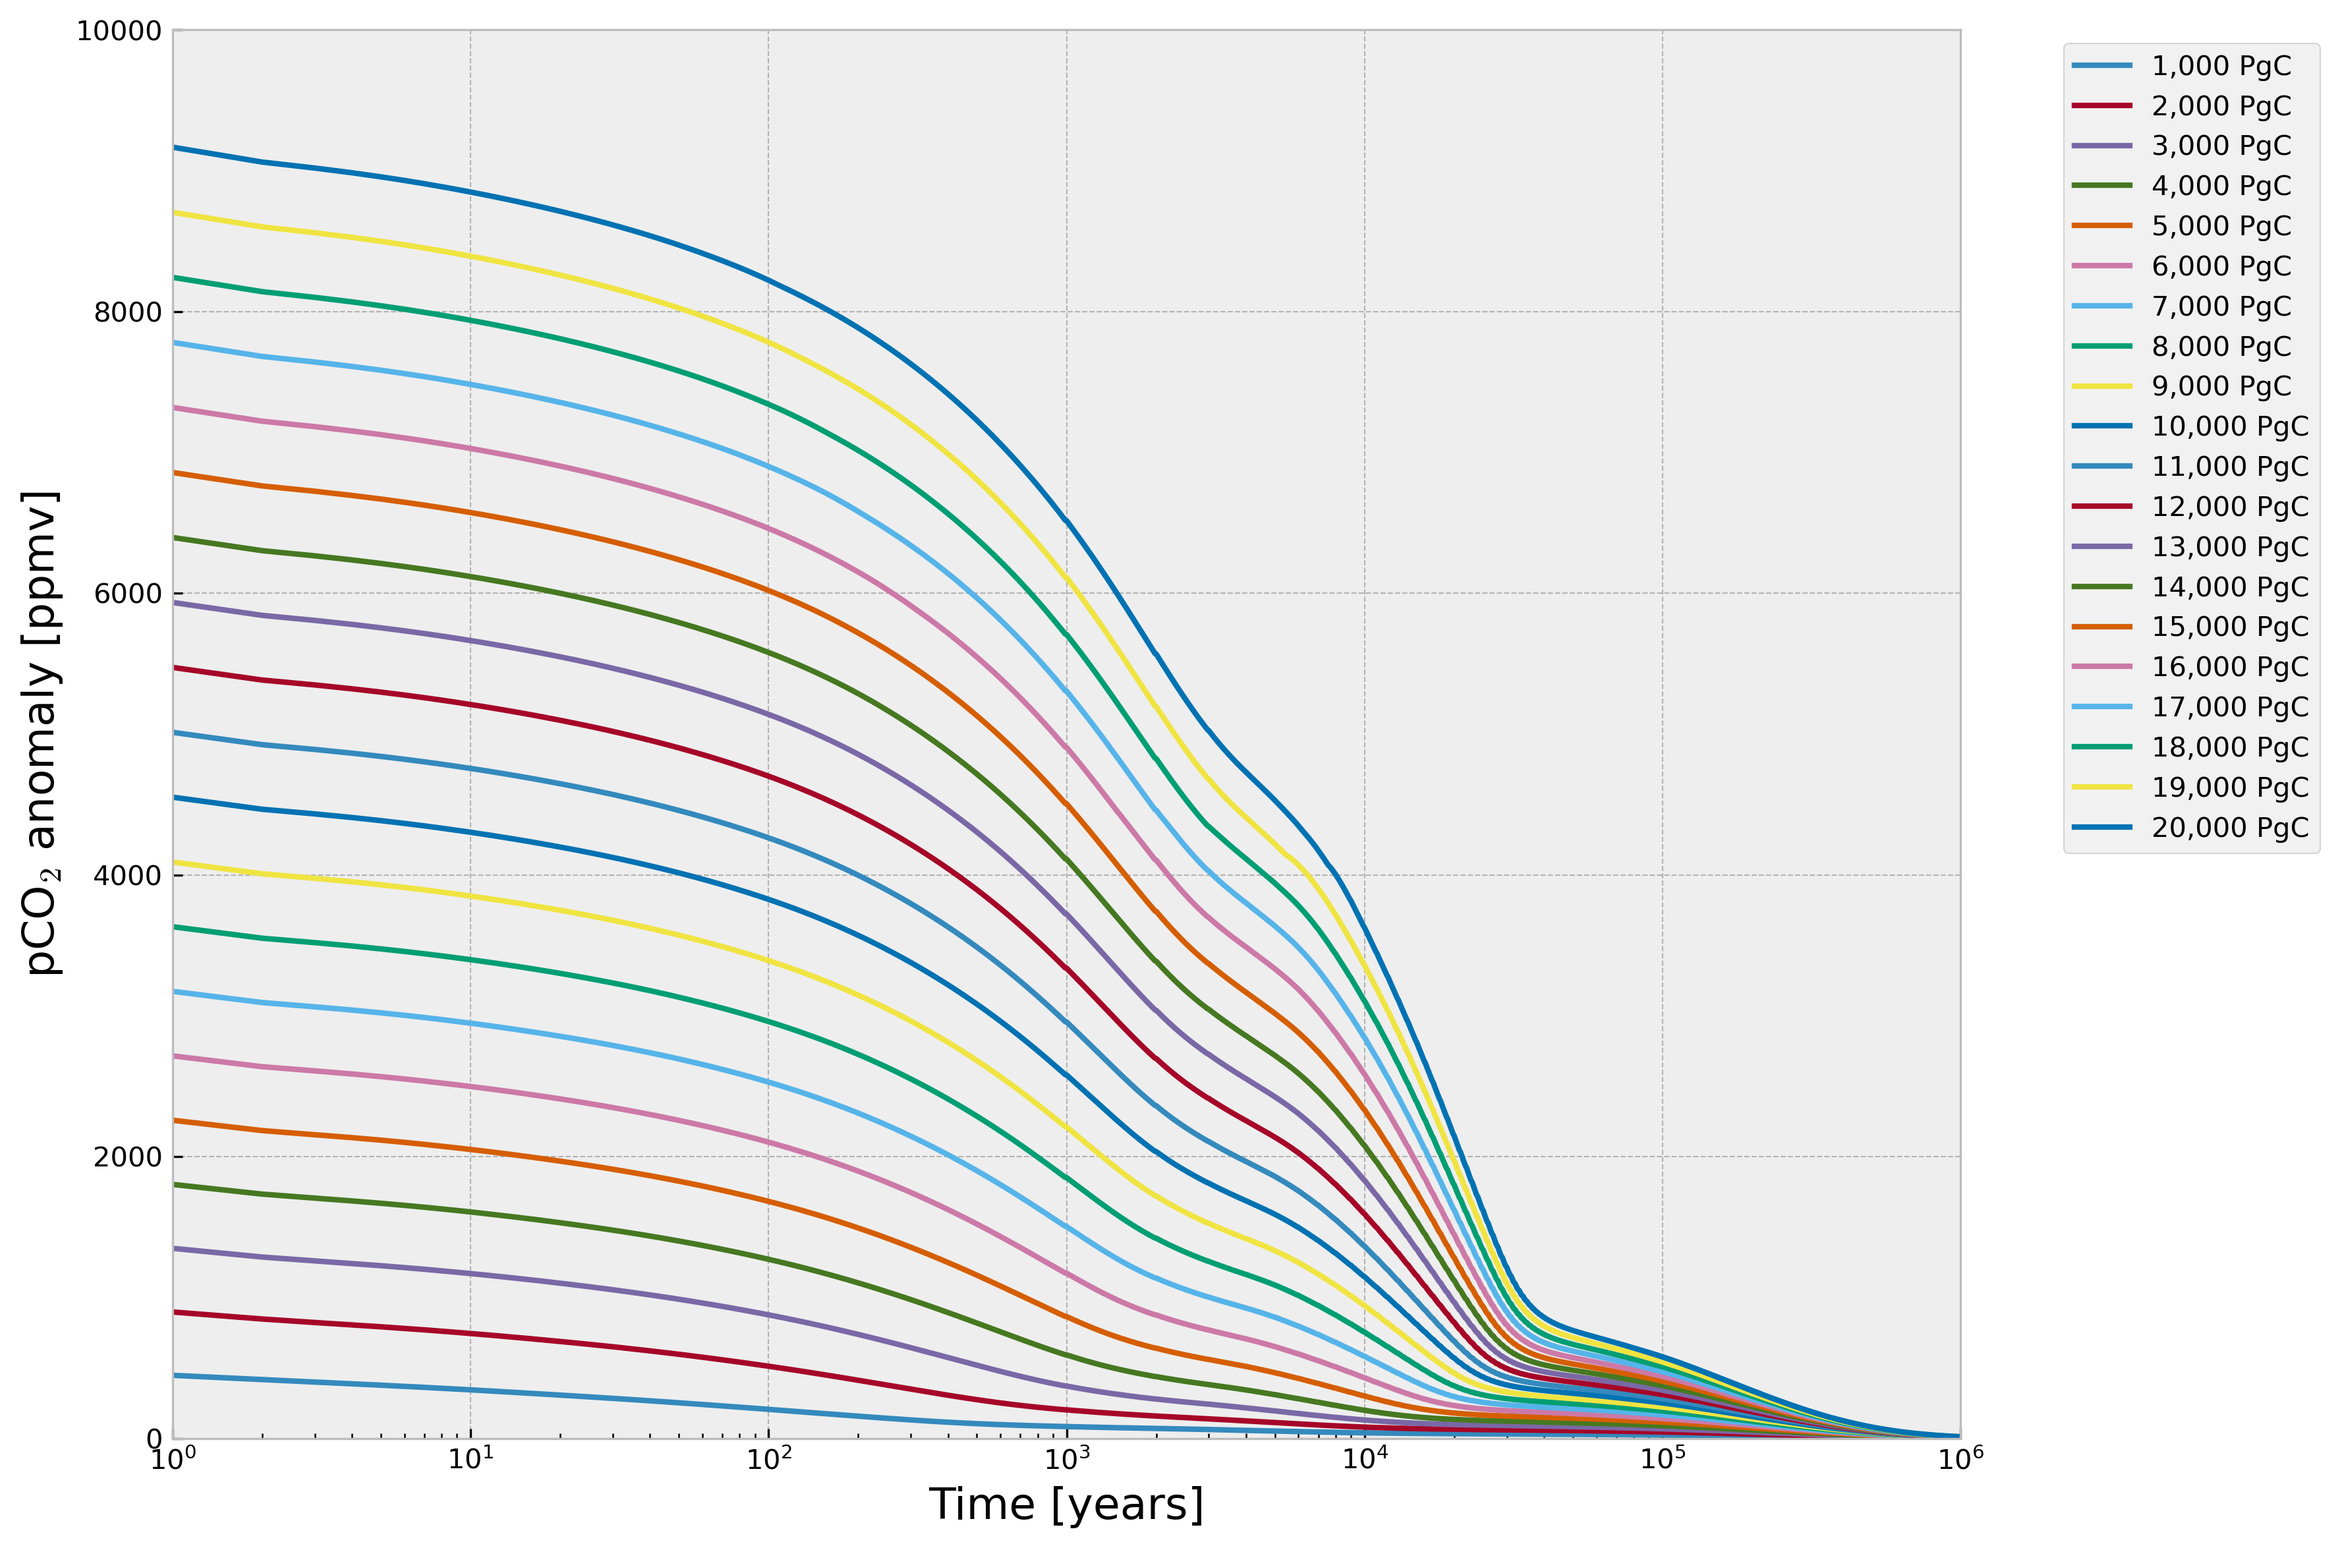
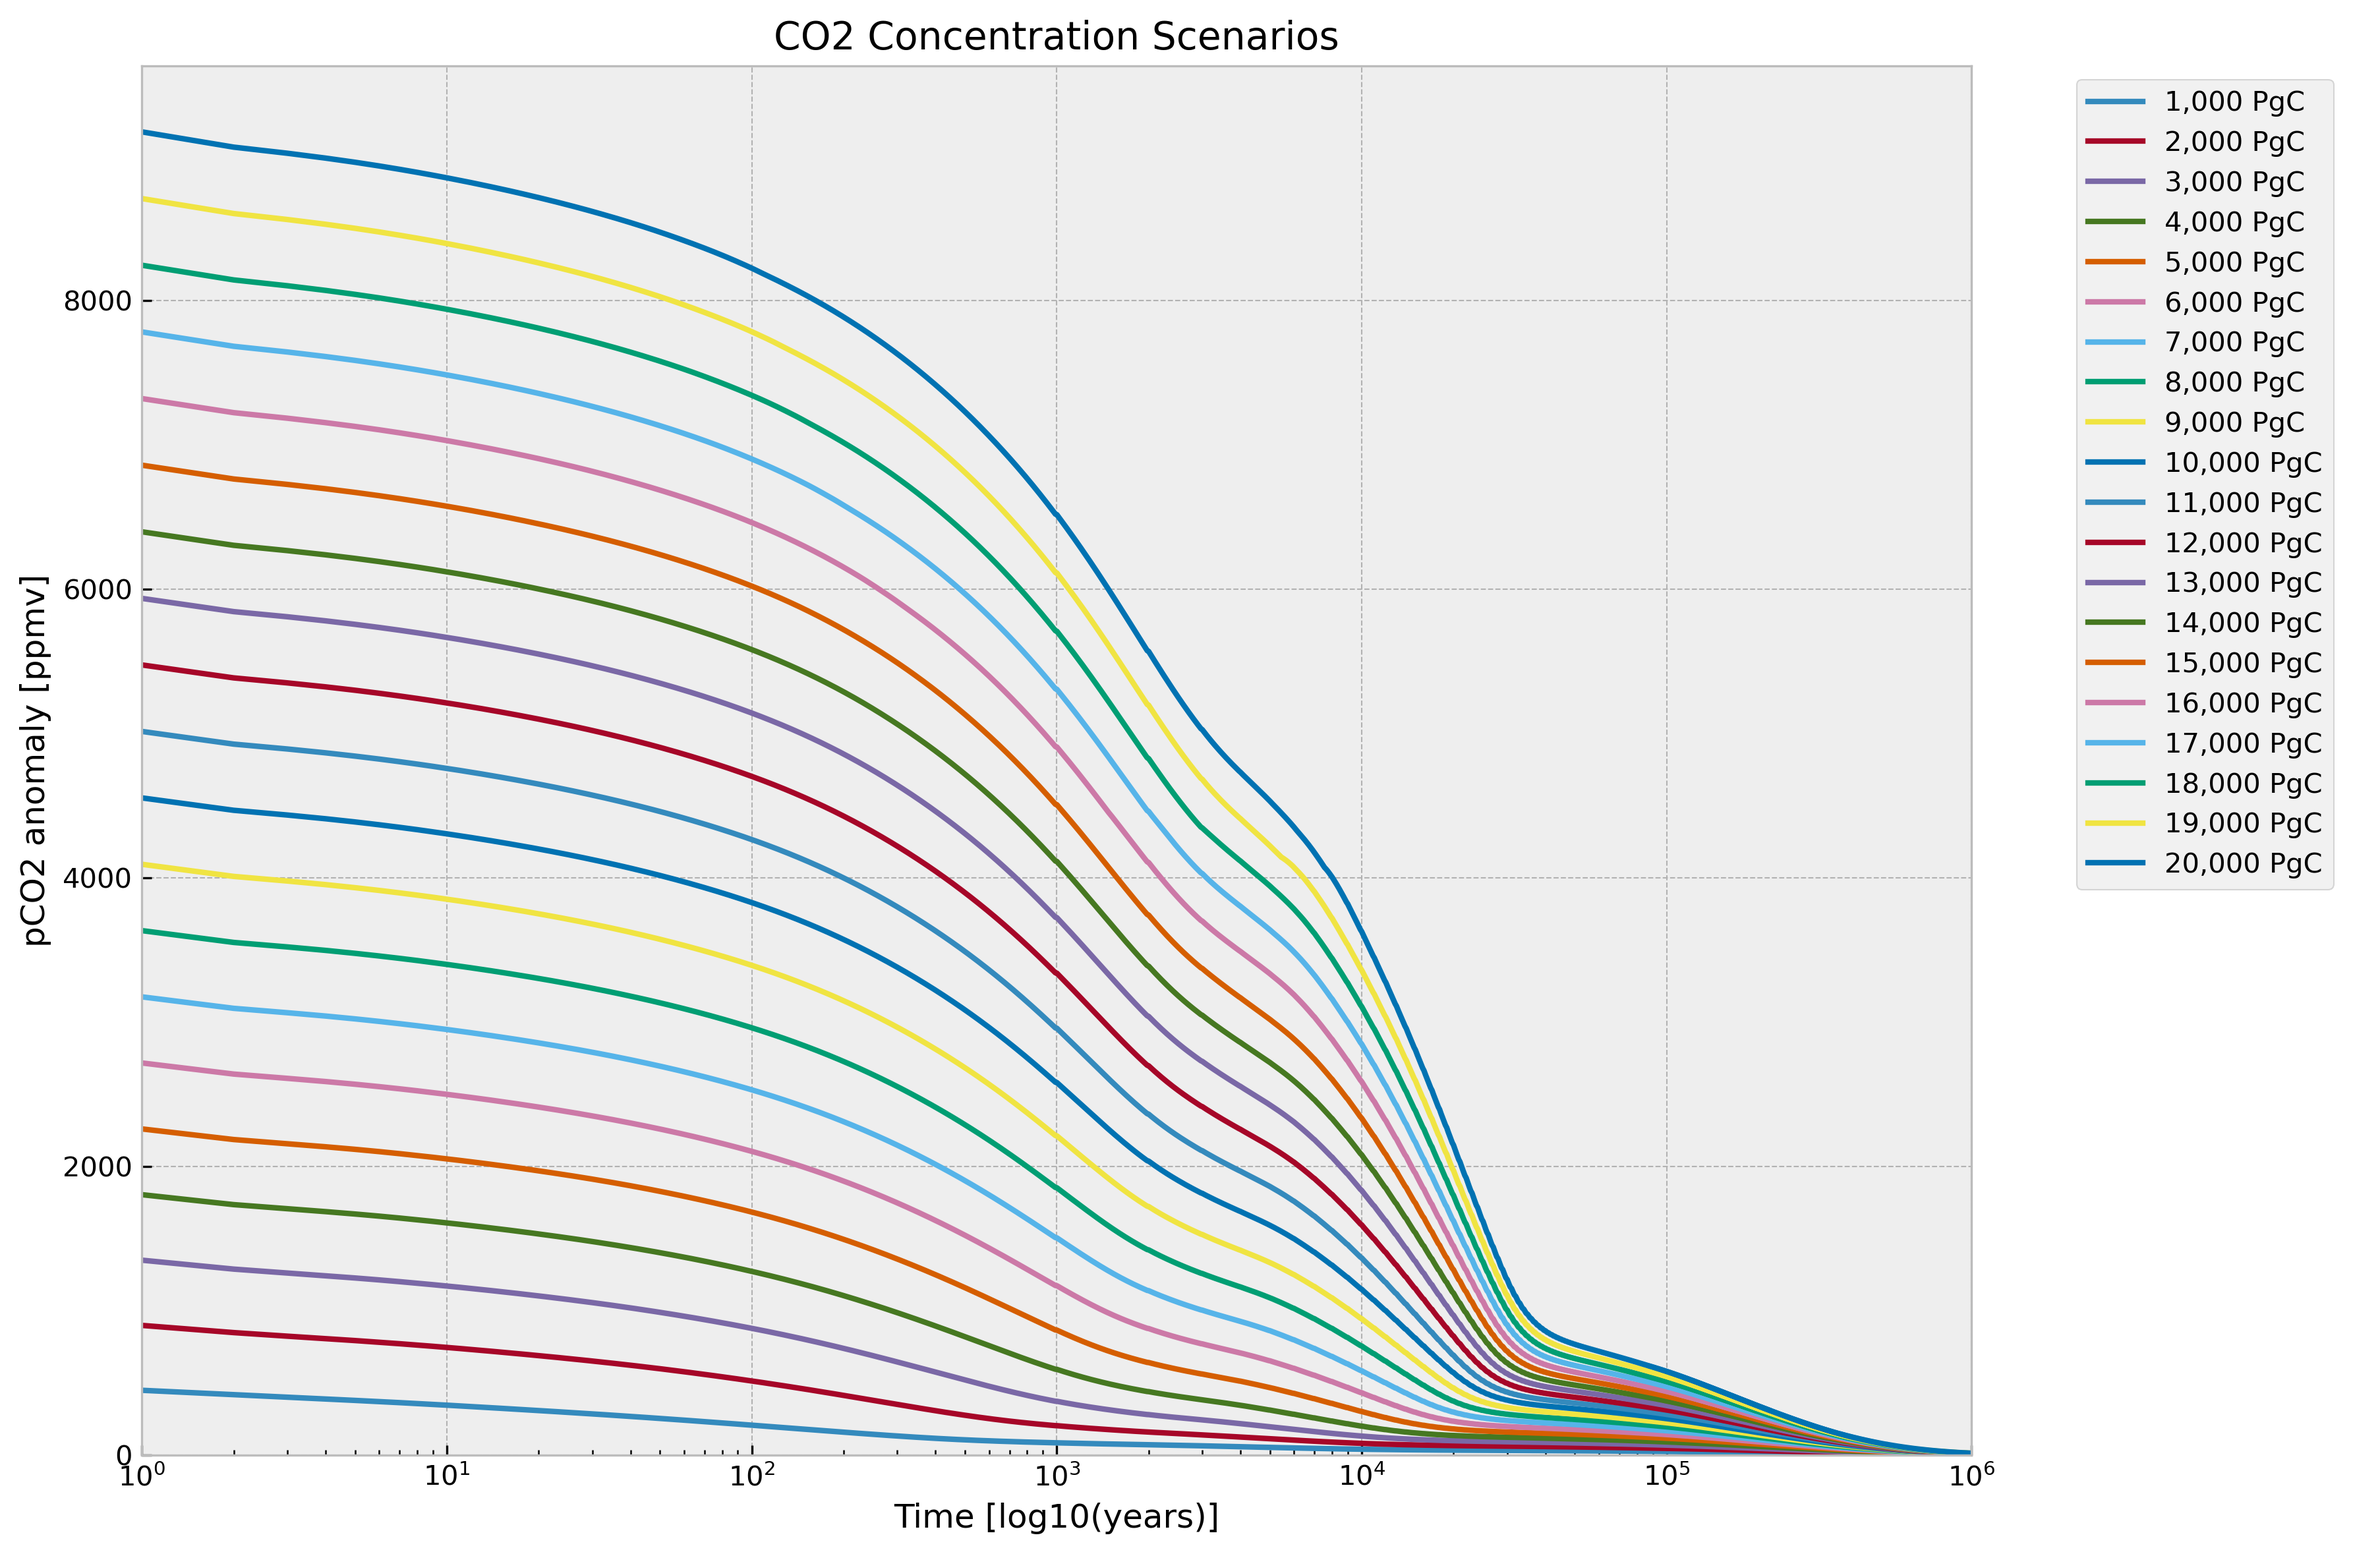
fix xlim & ylim

diff --git a/changepoint_analysis.py b/changepoint_analysis.py
@@ -4,7 +4,7 @@
 Changepoint Analysis Module
 
 This module provides functions for detecting and analyzing changepoints in time series data,
-specifically focused on the different cGENIE CO2 release scenarios.
+specifically focused on CO2 concentration scenarios.
 
 Author: Sandy Herho <sandy.herho@email.ucr.edu>
 Date: July 2, 2024
@@ -49,11 +49,12 @@ def plot_all_series(time, series_data, output_path):
         plt.plot(time, series, label=f'{i+1},000 PgC')
     
     plt.xscale('log')
-    plt.xlabel('Time [years]', fontsize=16)
-    plt.ylabel(r'pCO$_2$ anomaly [ppmv]', fontsize=16)
-    plt.xlim([1e0, 1e6 + 1])
-    plt.ylim([0, 1e4 + 1])
+    plt.xlabel('Time [log10(years)]', fontsize=12)
+    plt.ylabel('pCO2 anomaly [ppmv]', fontsize=12)
+    plt.title('CO2 Concentration Scenarios', fontsize=14)
     plt.legend(bbox_to_anchor=(1.05, 1), loc='upper left')
+    plt.xlim(time.min(), time.max())
+    plt.ylim(0, series_data.max() * 1.05)
     plt.tight_layout()
     plt.savefig(output_path, dpi=300, bbox_inches='tight')
     plt.close()
@@ -144,10 +145,12 @@ def plot_results(time, series_data, all_changepoints, output_path):
         for cp in changepoints:
             axs[i].axvline(time[cp], color='r', linestyle='--', alpha=0.5)
         axs[i].set_title(f'{i+1},000 PgC Scenario')
+        axs[i].set_xlim(time.min(), time.max())
+        axs[i].set_ylim(0, series_data.max() * 1.05)
         if i >= 15:
-            axs[i].set_xlabel('Time [years]', fontsize=16)
+            axs[i].set_xlabel('Time [years]', fontsize=10)
         if i % 5 == 0:
-            axs[i].set_ylabel(r'pCO$_2$ anomaly [ppmv]', fontsize=16)
+            axs[i].set_ylabel(r'pCO$_2$ anomaly [ppmv]', fontsize=10)
 
     plt.tight_layout()
     plt.savefig(output_path, dpi=300)

diff --git a/main.py b/main.py
@@ -3,7 +3,7 @@
 """
 Changepoint Analysis Main Script
 
-This script performs changepoint analysis on CO2 emission data,
+This script performs changepoint analysis on CO2 concentration data,
 generates plots, and computes summary statistics.
 
 Author: Sandy Herho <sandy.herho@email.ucr.edu>
@@ -28,26 +28,26 @@ def main():
     # Define input and output paths
     input_file = './data/atm_co2_ppmv.csv'
     results_dir = './results'
-
+    
     # Create results directory if it doesn't exist
     os.makedirs(results_dir, exist_ok=True)
-
+    
     # Load data
     time, series_data = load_data(input_file)
-
+    
     # Plot all series
     plot_all_series(time, series_data, os.path.join(results_dir, 'all_series_plot.png'))
-
+    
     # Analyze changepoints
     results = analyze_changepoints(time, series_data)
-
+    
     # Save results to CSV
     pd.DataFrame(results).to_csv(os.path.join(results_dir, 'changepoint_results.csv'), index=False)
-
+    
     # Plot results with changepoints
     all_changepoints = [detect_changepoints(series) for series in series_data]
     plot_results(time, series_data, all_changepoints, os.path.join(results_dir, 'changepoint_detection_results.png'))
-
+    
     # Generate and save summary statistics
     summary = generate_summary(results)
     summary.to_csv(os.path.join(results_dir, 'changepoint_summary.csv'))
